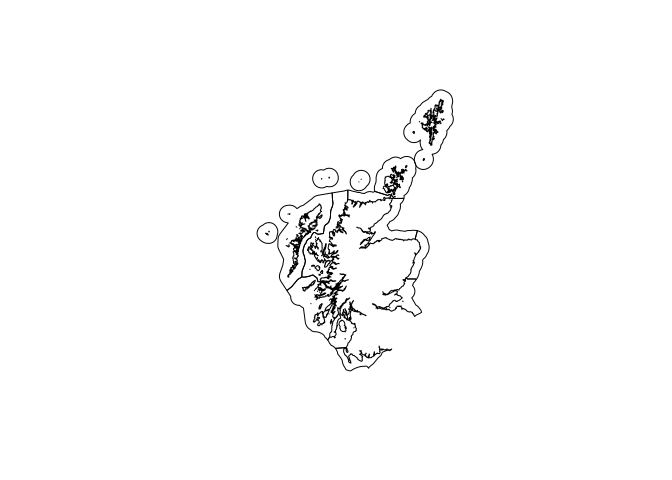
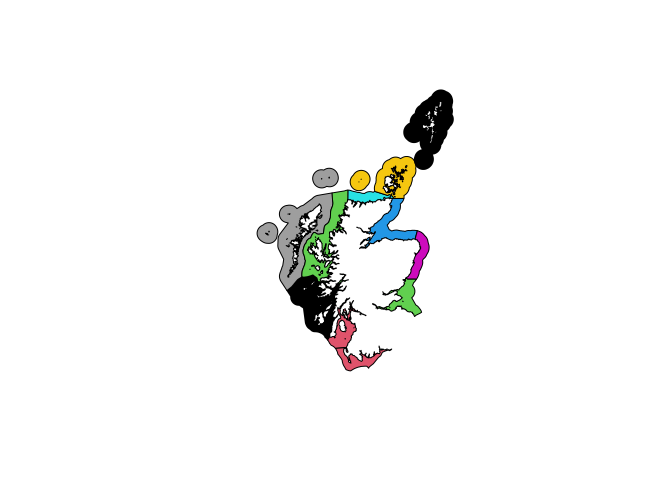
docs: reduce dependencies in vignette, pre-render plots

Changed region(s): [[0.375, 0.1875, 0.6875, 0.7812]]

diff --git a/README.md b/README.md
@@ -19,14 +19,16 @@ Downloads](https://cranlogs.r-pkg.org/badges/scotmaps?color=brightgreen)](https:
 ## Overview
 
 An [R](http://r-project.org) package of spatial map layers for Scotland.
+This package is a fork of the Province of British Columbia
+[`bcmaps`](https://github.com/bcgov/bcmaps) package.
 
 ## Features
 
 Provides access to various spatial layers of Scotland, such as
 administrative boundaries, natural resource management boundaries etc.
-All layers are available in the [British National
-Grid](https://spatialreference.org/ref/epsg/27700) projection, which is
-the Scottish Government standard.
+All layers use the Open Government Licence and made available in the
+[British National Grid](https://spatialreference.org/ref/epsg/27700)
+projection, which is the Scottish Government standard.
 
 Layers are assessed directly from the
 [spatialdata.gov.scot](https://www.spatialdata.gov.scot/) catalogue. See
@@ -48,7 +50,6 @@ To see the layers that are available, run the `available_layers()`
 function:
 
 ``` r
-
 available_layers()
 ```
 
@@ -62,7 +63,7 @@ layer is available locally for easy future access. For example:
 library(sf)
 
 ma <- marine_areas()
-plot(st_geometry(ma))
+plot(st_geometry(ma), col = ma$id)
 ```
 
 ![](tools/readme/unnamed-chunk-5-1.png)<!-- -->
